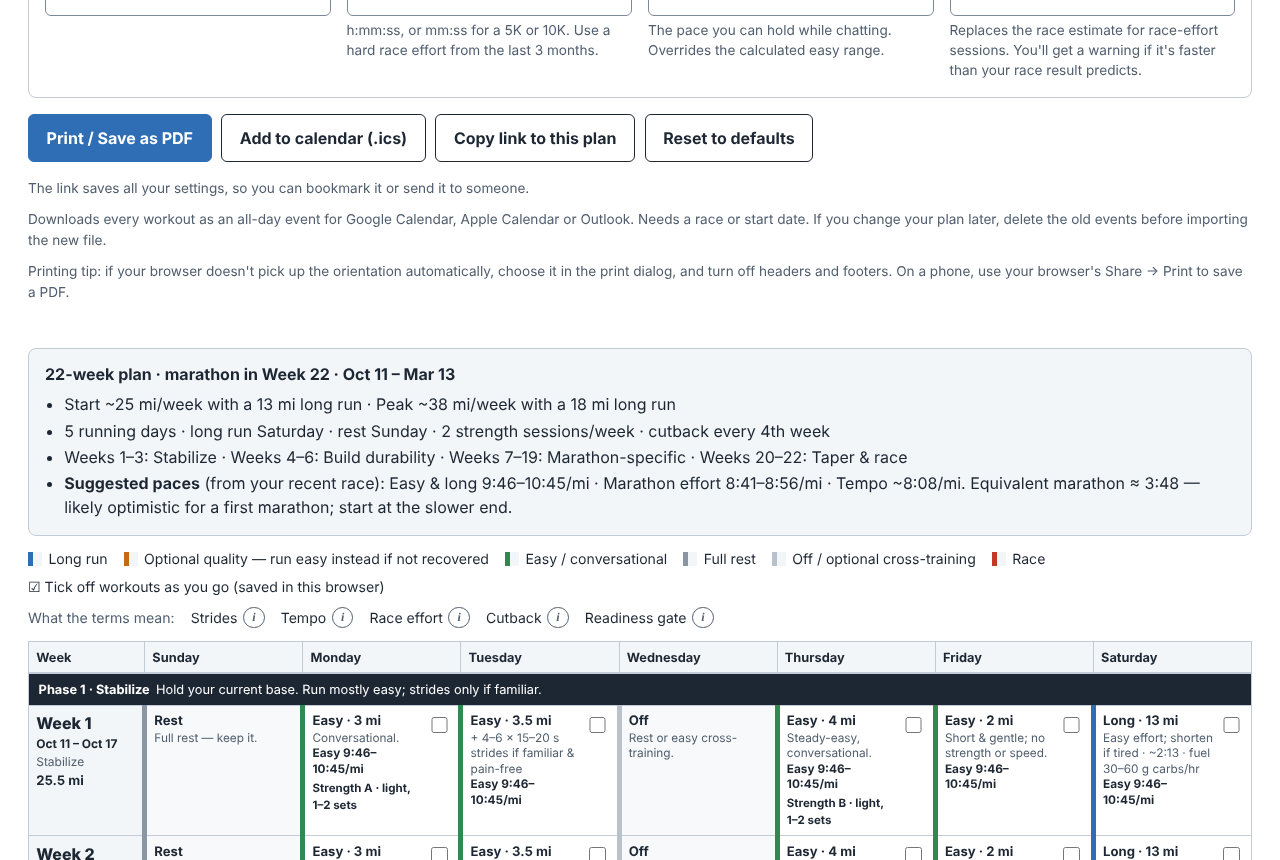
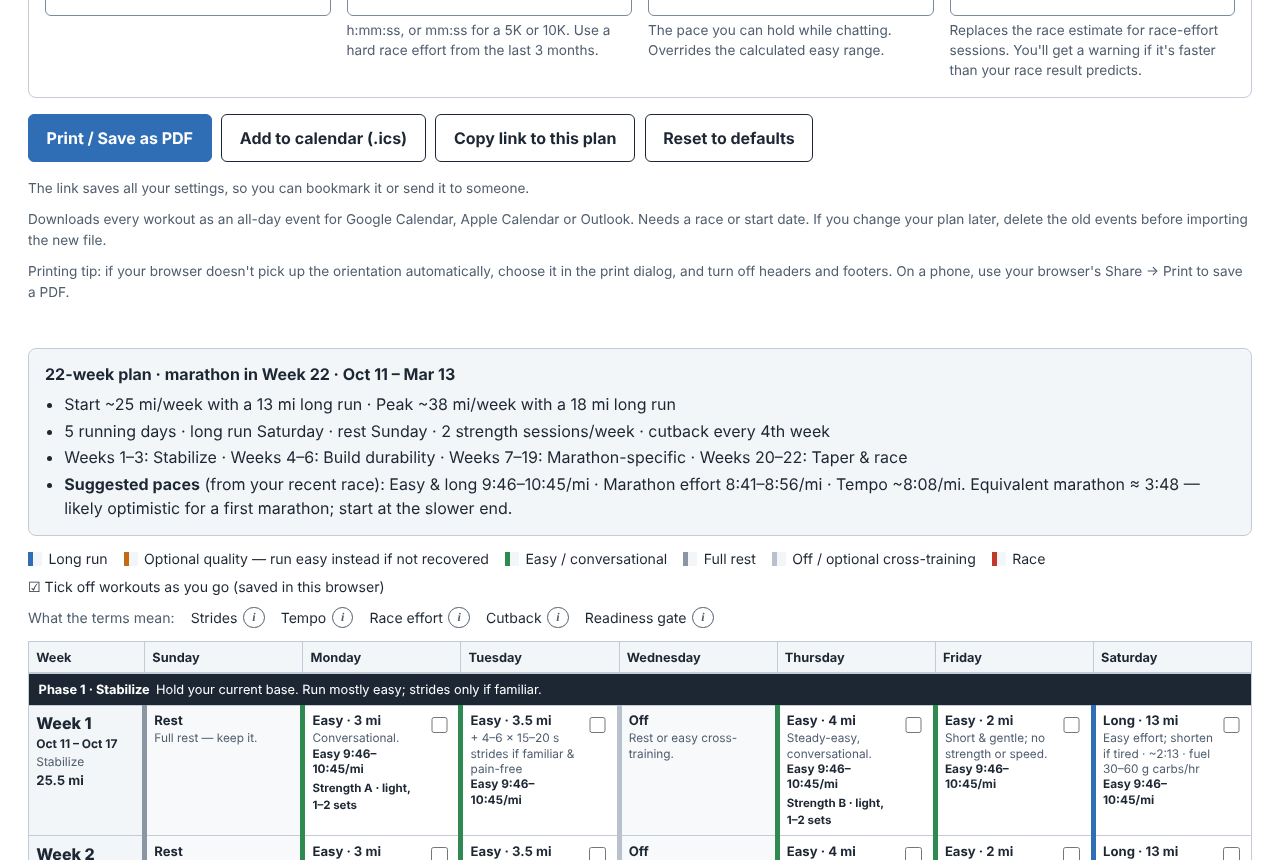
Add quick-start presets (#17)
Closes #11.

Claude-Session: https://claude.ai/code/session_01RxRAqR9oFfUDPtSgeYb5ho

Changed region(s): [[0.0312, 0.5442, 0.9375, 0.6047], [0.25, 0.8465, 0.2812, 0.8767]]

diff --git a/index.html b/index.html
@@ -4,7 +4,7 @@
 <meta charset="utf-8">
 <meta name="viewport" content="width=device-width, initial-scale=1">
 <meta name="color-scheme" content="light dark">
-<meta http-equiv="Content-Security-Policy" content="default-src 'none'; script-src 'sha256-StqfzsstKF7TpePvq7eV/dkxT3pXB82c4e6MnbEIKDc='; style-src 'unsafe-inline'; img-src 'self' data:; base-uri 'none'; form-action 'none'; object-src 'none'">
+<meta http-equiv="Content-Security-Policy" content="default-src 'none'; script-src 'sha256-jmIwCF+ca2KqpD6m2loXVeIe4mWzK5/szpaCnKUwBio='; style-src 'unsafe-inline'; img-src 'self' data:; base-uri 'none'; form-action 'none'; object-src 'none'">
 <meta name="description" content="Free printable training calendar for the marathon or half marathon. Enter your current mileage to get a week-by-week, readiness-based plan with optional pace guidance and calendar export.">
 <link rel="canonical" href="https://evansmith1377.github.io/physical-training-planner/">
 <meta name="theme-color" content="#f3f6f8" media="(prefers-color-scheme: light)">
@@ -62,6 +62,13 @@ a { color: var(--accent); }
 :focus-visible { outline: 3px solid var(--focus); outline-offset: 2px; }
 
 /* ---------- Form ---------- */
+.presets { margin: 1rem 0 0; }
+.preset-list { display: grid; gap: .5rem; grid-template-columns: 1fr 1fr; margin-block-start: .5rem; } /* two columns keep the form near the top on phones */
+@media (width >= 60rem) { .preset-list { grid-template-columns: repeat(3, 1fr); } }
+@media (width < 22rem) { .preset-list { grid-template-columns: 1fr; } }
+.preset-list button { display: grid; align-content: start; gap: .15rem; padding: .55rem .75rem; text-align: start; font-weight: 400; border-color: var(--field-border); }
+.preset-list button span { font-size: .85rem; color: var(--muted); }
+.preset-list button[aria-current="true"] { border-color: var(--accent); background: color-mix(in oklab, var(--accent) 14%, var(--paper)); }
 .planner { display: grid; gap: 1rem; grid-template-columns: repeat(auto-fit, minmax(min(100%, 19rem), 1fr)); margin: 1rem 0; }
 .planner fieldset, .planner details { border: 1px solid var(--line); border-radius: 8px; padding: .9rem 1rem 1rem; margin: 0; min-inline-size: 0; background: var(--paper); }
 .planner legend, .planner summary { font-weight: 750; font-size: .95rem; padding-inline: .3rem; }
@@ -262,6 +269,18 @@ footer.site { margin-block-start: 1.5rem; font-size: .85rem; color: var(--muted)
 <noscript><p class="warn">This planner needs JavaScript to build your calendar. The reference guide below still works without it.</p></noscript>
 
 <form id="planForm" class="no-print" novalidate>
+  <div class="presets" role="group" aria-labelledby="presetsLabel" aria-describedby="presetsHint">
+    <span class="group-label" id="presetsLabel">Quick start</span>
+    <span class="hint" id="presetsHint">Pick the closest starting point, then fine-tune anything below. Your units, dates and paces stay as they are.</span>
+    <div class="preset-list">
+      <button type="button" data-preset="sofa"><strong>Sofa Starter</strong><span>New to running: a gentle first half marathon</span></button>
+      <button type="button" data-preset="comeback"><strong>Comeback Kid</strong><span>Back after a break: rebuild with no race</span></button>
+      <button type="button" data-preset="weekend"><strong>Weekend Warrior</strong><span>Busy weeks: a half marathon on 4 runs a week</span></button>
+      <button type="button" data-preset="emily"><strong>Emily's Starting Point</strong><span>The default: from a half-marathon base to a first marathon</span></button>
+      <button type="button" data-preset="maven"><strong>Marathon Maven</strong><span>Marathon regular: more volume over 6 run days</span></button>
+      <button type="button" data-preset="monster"><strong>Mileage Monster</strong><span>Already running big weeks: high volume, 6 run days</span></button>
+    </div>
+  </div>
   <div class="planner">
 
     <fieldset>
@@ -1101,6 +1120,24 @@ const FIELDS = {
   weekStart: { kind: 'radio', def: 'sun' }, paper: { kind: 'radio', def: 'letter' }, orientation: { kind: 'radio', def: 'landscape' },
   includeGuide: { kind: 'check', def: true }
 };
+/* Quick-start presets (names live on the buttons): training settings only, distances in miles. Units, dates, paces, days of the week and print options are left alone. */
+const PRESETS = {
+  sofa:     { goal: 'half', miles: 12, longrun: 4, weeks: 24, peakMiles: 25, peakLong: 10, cutEvery: 3, days: 4, strength: 2 },
+  comeback: { goal: 'base', miles: 15, longrun: 6, weeks: 12, peakMiles: 25, peakLong: 10, cutEvery: 3, days: 4, strength: 2 },
+  weekend:  { goal: 'half', miles: 22, longrun: 9, weeks: 14, peakMiles: 28, peakLong: 12, cutEvery: 4, days: 4, strength: 1 },
+  /* The defaults' whole plan, including taper and schedule days. */
+  emily:    Object.fromEntries(['goal', 'miles', 'longrun', 'weeks', 'peakMiles', 'peakLong', 'cutEvery', 'taper', 'days', 'longDay', 'restDay', 'strength'].map(k => [k, FIELDS[k].def])),
+  maven:    { goal: 'marathon', miles: 40, longrun: 16, weeks: 18, peakMiles: 50, peakLong: 20, cutEvery: 4, days: 6, strength: 2 },
+  monster:  { goal: 'marathon', miles: 60, longrun: 18, weeks: 18, peakMiles: 70, peakLong: 20, cutEvery: 4, days: 6, strength: 1 }
+};
+const DIST_KEYS = ['miles', 'longrun', 'peakMiles', 'peakLong'];
+const miToKmField = mi => Math.round(mi * KM_PER_MI);  /* form distances in km are whole numbers */
+/* A preset's form values in the current units (metric distances round to whole km, as unit switching does). */
+function presetValues(id, units) {
+  const v = { ...PRESETS[id] };
+  if (units === 'metric') for (const k of DIST_KEYS) v[k] = miToKmField(v[k]);
+  return v;
+}
 const STORE_KEY = 'ptp.settings.v1', DONE_KEY = 'ptp.done.v1';
 let form, currentUnits = 'us', currentGoal = 'marathon', done = new Set();
 /* One-off adjustments (bad link values, an impossible taper) shown until the visitor next edits something. */
@@ -1142,7 +1179,7 @@ function snapshot() { const o = {}; for (const k in FIELDS) o[k] = getField(k); 
 
 function applyUnitLabels(units) {
   const r = RANGES[units];
-  for (const k of ['miles', 'longrun', 'peakMiles', 'peakLong', 'weight']) {
+  for (const k of [...DIST_KEYS, 'weight']) {
     form.elements[k].min = r[k][0]; form.elements[k].max = r[k][1];
   }
   const metric = units === 'metric';
@@ -1160,9 +1197,9 @@ function applyUnitLabels(units) {
 function convertFields(from, to) {
   if (from === to) return;
   const toMetric = to === 'metric';
-  for (const k of ['miles', 'longrun', 'peakMiles', 'peakLong']) {
+  for (const k of DIST_KEYS) {
     const v = Number(form.elements[k].value);
-    if (form.elements[k].value !== '' && Number.isFinite(v)) form.elements[k].value = Math.round(toMetric ? v * KM_PER_MI : v / KM_PER_MI);
+    if (form.elements[k].value !== '' && Number.isFinite(v)) form.elements[k].value = toMetric ? miToKmField(v) : Math.round(v / KM_PER_MI);
   }
   const w = Number(form.elements.weight.value);
   if (form.elements.weight.value !== '' && Number.isFinite(w)) form.elements.weight.value = Math.round(toMetric ? w / LB_PER_KG : w * LB_PER_KG);
@@ -1179,6 +1216,10 @@ function onGoalChange(prev, next) {
     setField('peakLong', N.defaults[units][1]);
   }
   if (+getField('weeks') === P.defWeeks) setField('weeks', N.defWeeks);
+  goalTransition(P, N);
+}
+/* Taper and race/start date that no longer fit a new goal, with notices. Also used by presets. */
+function goalTransition(P, N) {
   const taper = +getField('taper');
   if (N.race && (taper === P.defTaper || !N.tapers.includes(taper))) {
     setField('taper', N.defTaper);
@@ -1240,6 +1281,10 @@ function render() {
   document.body.classList.toggle('no-guide', !cfg.includeGuide);
   document.body.classList.toggle('print-portrait', cfg.orientation === 'portrait');
   renderHints(cal);
+  /* Mark the preset that matches the current settings, if any. */
+  const now = snapshot();
+  form.querySelectorAll('[data-preset]').forEach(b => b.setAttribute('aria-current', String(
+    Object.entries(presetValues(b.dataset.preset, cfg.units)).every(([k, v]) => now[k] !== '' && (+now[k] === +v || String(now[k]) === String(v))))));
 
   $('calHead').innerHTML = `<tr><th scope="col">Week</th>${cols.map(d => `<th scope="col">${DAY_NAMES[d]}</th>`).join('')}</tr>`;
 
@@ -1468,15 +1513,29 @@ function downloadICS() {
   setStatus(`Calendar file downloaded with ${count} workouts. Open it to import.`, 8000);
 }
 let undoSnapshot = null;
-function resetPlan() {
+/* Replace settings in one undoable step (reset and presets). */
+function replaceSettings(apply, msg) {
   notices.length = 0;
-  undoSnapshot = snapshot();
-  applyObject(Object.fromEntries(Object.entries(FIELDS).map(([k, f]) => [k, f.def])));
+  if ($('undoBtn').hidden) undoSnapshot = snapshot();  /* while Undo is offered, keep the visitor's own settings */
+  apply();
   if (location.search) history.replaceState(null, '', location.pathname);
   userChange = true;
   render();
   $('undoBtn').hidden = false;
-  setStatus('Settings reset to defaults.', 12000);
+  setStatus(typeof msg === 'function' ? msg() : msg, 12000);
+}
+function resetPlan() {
+  replaceSettings(() => applyObject(Object.fromEntries(Object.entries(FIELDS).map(([k, f]) => [k, f.def]))), 'Settings reset to defaults.');
+}
+function applyPreset(id, name) {
+  let kept = '';
+  replaceSettings(() => {
+    const v = presetValues(id, getField('units'));
+    goalTransition(GOALS[currentGoal], GOALS[v.goal]);
+    /* A race date the visitor set still decides the plan length. */
+    if (GOALS[v.goal].race && getField('anchorDate')) { kept = ` Kept your ${getField('weeks')}-week plan to fit your race date.`; delete v.weeks; }
+    applyObject(v);
+  }, () => `Applied "${name}".${kept} Fine-tune anything below.`);
 }
 function undoReset() {
   if (!undoSnapshot) return;
@@ -1564,7 +1623,7 @@ function init() {
   currentGoal = getField('goal');
   applyUnitLabels(currentUnits);
   form.addEventListener('submit', e => e.preventDefault());
-  form.addEventListener('input', () => { notices.length = 0; queueRender(); });
+  form.addEventListener('input', () => { notices.length = 0; $('undoBtn').hidden = true; queueRender(); });  /* an edit ends the Undo offer */
   form.addEventListener('change', e => {
     notices.length = 0;
     if (e.target.name === 'units') {
@@ -1583,6 +1642,7 @@ function init() {
   $('icsBtn').addEventListener('click', downloadICS);
   $('copyBtn').addEventListener('click', copyLink);
   $('resetBtn').addEventListener('click', resetPlan);
+  form.querySelector('.preset-list').addEventListener('click', e => { const b = e.target.closest('[data-preset]'); if (b) applyPreset(b.dataset.preset, b.querySelector('strong').textContent); });
   $('undoBtn').addEventListener('click', undoReset);
   $('matchWeeksBtn').addEventListener('click', e => { setField('weeks', e.currentTarget.dataset.weeks); userChange = true; render(); form.elements.weeks.focus(); });
   $('calBody').addEventListener('change', onDoneChange);

diff --git a/tests/test_planner.py b/tests/test_planner.py
@@ -159,6 +159,77 @@ def test_reset_and_undo(page):
     assert values(page, "miles", "peakMiles", "peakLong", "weight") == ["40", "61", "29", "70"]
 
 
+def current_preset(page):
+    return page.locator('[data-preset][aria-current="true"]').evaluate_all("bs => bs.map(b => b.dataset.preset)")
+
+
+def test_preset_applies_training_settings_and_undoes(page):
+    assert current_preset(page) == ["emily"]  # the defaults are Emily's starting point
+    fill(page, "#weight", "150")
+    page.click('[data-preset="sofa"]')
+    assert values(page, "miles", "longrun", "weeks", "peakMiles", "peakLong", "weight") == ["12", "4", "24", "25", "10", "150"]
+    assert page.is_checked('input[name="goal"][value="half"]') and page.is_checked('input[name="days"][value="4"]')
+    assert current_preset(page) == ["sofa"]
+    expect(page.locator("#actionStatus")).to_have_text('Applied "Sofa Starter". Fine-tune anything below.')
+    fill(page, "#miles", "13")  # any edit means no preset matches any more
+    assert current_preset(page) == []
+    page.click('[data-preset="emily"]')
+    assert values(page, "miles", "longrun", "weeks", "peakMiles", "peakLong") == ["25", "13", "22", "38", "18"]
+    page.click("#undoBtn")
+    assert values(page, "miles", "weeks") == ["13", "24"]
+
+
+def test_presets_keep_units_and_convert(page):
+    pick(page, "units", "metric")
+    page.click('[data-preset="maven"]')
+    assert page.is_checked('input[name="units"][value="metric"]')
+    assert values(page, "miles", "longrun", "peakMiles", "peakLong") == ["64", "26", "80", "32"]
+    assert current_preset(page) == ["maven"]
+
+
+def test_preset_that_changes_race_goal_clears_date_with_notice(make_page):
+    page = make_page("?anchorDate=2027-04-18", now=NOW)
+    page.click('[data-preset="comeback"]')
+    assert page.input_value("#anchorDate") == ""
+    assert "Cleared the race date" in page.inner_text("#warnings")
+
+
+def test_undo_after_several_presets_restores_own_settings(page):
+    fill(page, "#miles", "31")
+    page.click('[data-preset="sofa"]')
+    page.click('[data-preset="monster"]')
+    page.click("#undoBtn")
+    settle(page)
+    assert values(page, "miles") == ["31"]
+
+
+def test_preset_keeps_plan_length_that_fits_race_date(make_page):
+    page = make_page("?anchorDate=2027-01-02&weeks=13", now=NOW)
+    page.click('[data-preset="sofa"]')
+    assert values(page, "weeks", "miles") == ["13", "12"]
+    expect(page.locator("#actionStatus")).to_contain_text("Kept your 13-week plan to fit your race date.")
+
+
+def test_emily_restores_her_whole_plan(make_page):
+    assert current_preset(make_page("?miles=25.0")) == ["emily"]  # 25.0 is the same as 25
+    page = make_page("?taper=2&longDay=6&restDay=0")
+    assert current_preset(page) == []
+    page.click('[data-preset="emily"]')
+    assert page.is_checked('input[name="taper"][value="3"]') and page.is_checked('input[name="longDay"][value="5"]')
+    assert current_preset(page) == ["emily"]
+
+
+@pytest.mark.parametrize("units", ["us", "metric"])
+def test_every_preset_builds_a_clean_plan(page, units):
+    pick(page, "units", units)
+    presets = page.locator("[data-preset]").evaluate_all("bs => bs.map(b => b.dataset.preset)")
+    assert len(presets) == 6
+    for preset in presets:
+        page.click(f'[data-preset="{preset}"]')
+        assert page.inner_text("#warnings") == "", preset
+        assert current_preset(page) == [preset]
+
+
 def test_rest_day_cannot_match_long_day(page):
     assert page.evaluate("[...document.getElementById('restDay').options].filter(o => o.disabled).map(o => o.text)") == ["Saturday"]
     pick(page, "longDay", "6")  # Sunday long run while rest day is Sunday

diff --git a/CLAUDE.md b/CLAUDE.md
@@ -36,7 +36,7 @@ tests/                  pytest + Playwright suite
 7. Form state: `FIELDS` (field name → kind and default), `readCfg`, unit and goal switching, `localStorage` (`ptp.settings.v1`, `ptp.done.v1` for checkmarks), and links that carry settings in the page address.
 8. `render()` → `renderHints()`, `renderSummary()`; actions (copy link, `.ics` download, reset/undo, checkmarks); toggletips (`initTips`).
 
-To add a setting: add it to `FIELDS` and the form markup, read it in `readCfg`, and use it in `computeCalendar`/`render`. It will be saved and included in shared links automatically. To add a goal, add a `GOALS` entry and a radio option.
+To add a setting: add it to `FIELDS` and the form markup, read it in `readCfg`, and use it in `computeCalendar`/`render`. It will be saved and included in shared links automatically. To add a goal, add a `GOALS` entry and a radio option. To add a quick-start preset, add a `PRESETS` entry (training fields, distances in miles) and a button; check it builds a plan with no warnings in both unit systems (a test does).
 
 ## Front-end conventions
 

diff --git a/README.md b/README.md
@@ -18,6 +18,7 @@ The page is a single `index.html` with no build step, no dependencies, and no ne
   - *Half marathon:* 1–2 week taper.
   - *Build durability:* a base of up to 35 mi/week and 16 mi long runs, with no race.
 - **Readiness-based phases:** Stabilize, Build durability, Race-specific, and Taper. Each phase opens with the "readiness gate" to meet before moving on, and repeating a week is expected.
+- **Quick-start presets.** Six starting points, from Sofa Starter (a gentle first half) to Mileage Monster (60+ mi weeks), plus Emily's Starting Point, the defaults. A preset sets the training fields only; your units, dates and paces stay, and Undo brings your settings back.
 - **Your week, your way.**
   - 4, 5, or 6 running days.
   - Saturday or Sunday long run, and any rest day.
